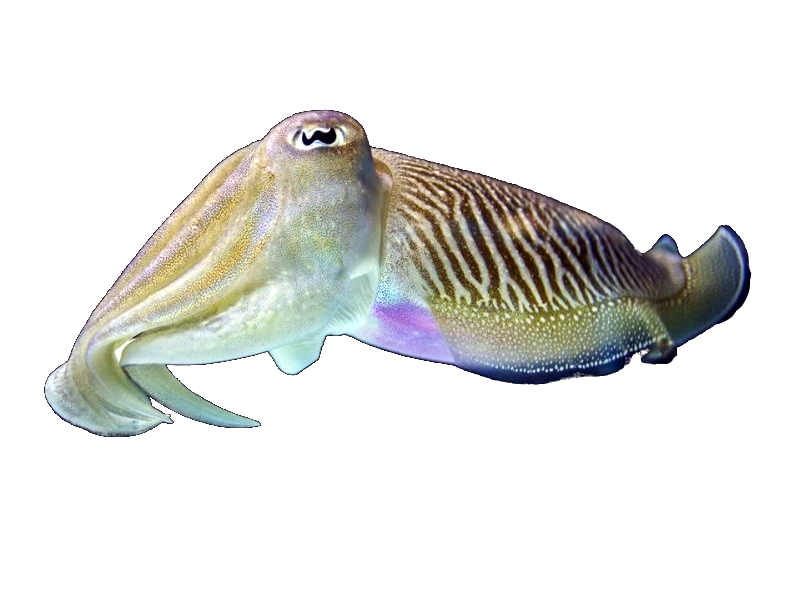
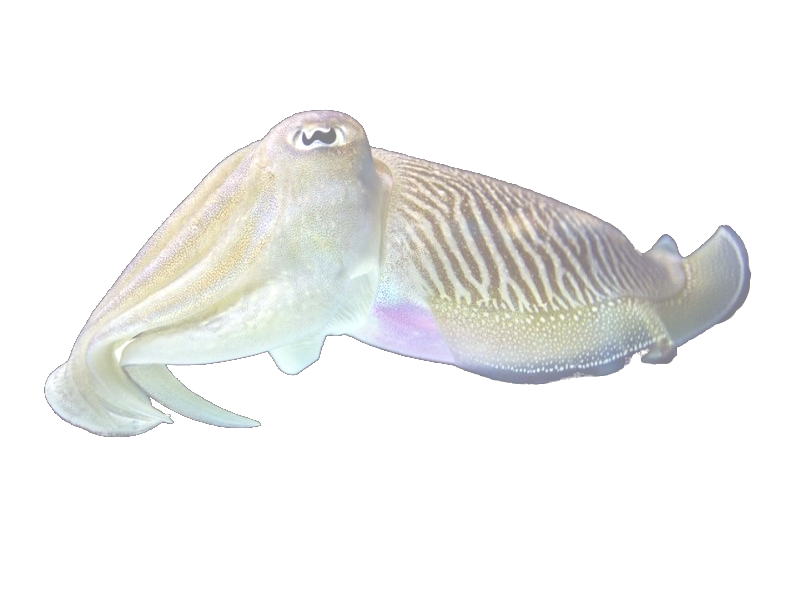
Added a little transparency to the cuttlefish to reduce its brightness.

Changed region(s): [[0.0312, 0.18, 0.9375, 0.75]]

diff --git a/releaseNotesBR.md b/releaseNotesBR.md
@@ -20,6 +20,10 @@ Info for Mac Users: Applications/games/rotp/ is a good place to run it smoothly!
   - The goal of this new option is to provide a new option to create Silicoid-like races, that are not too overpowered on certain galaxy settings such as larger Hellish galaxies.
 
 
+<b><ins>Optimisation:</ins></b>
+- Added a little transparency to the cuttlefish to reduce its brightness.
+
+
 <b><ins>Bug Fixes:</ins></b>
 - Fixed multiple star systems sharing the same name.
 

diff --git a/README.md b/README.md
@@ -64,6 +64,7 @@ Later:
 - Completed custom species description.
   - Added the reddit description to the new Practical-Incarnation options.
 - Fixed multiple star systems sharing the same name.
+- Added a little transparency to the cuttlefish to reduce its brightness.
 
 2024.01.01 (Practical-Incarnation)
 - New Ignore eco limited for custom species.
